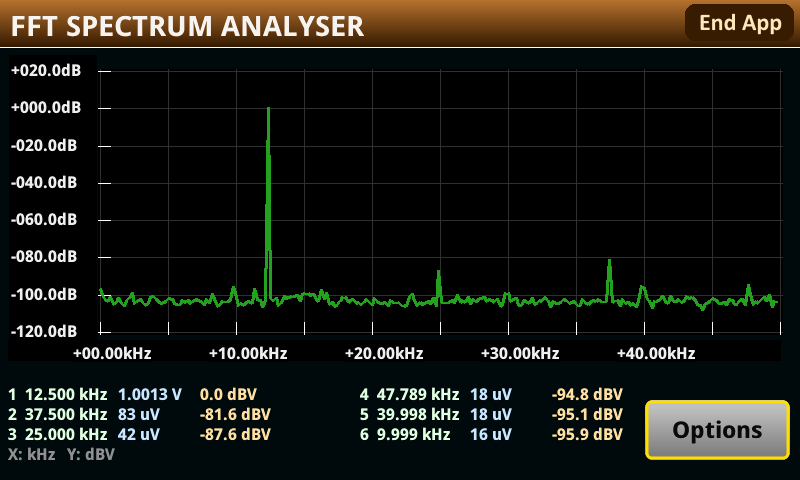
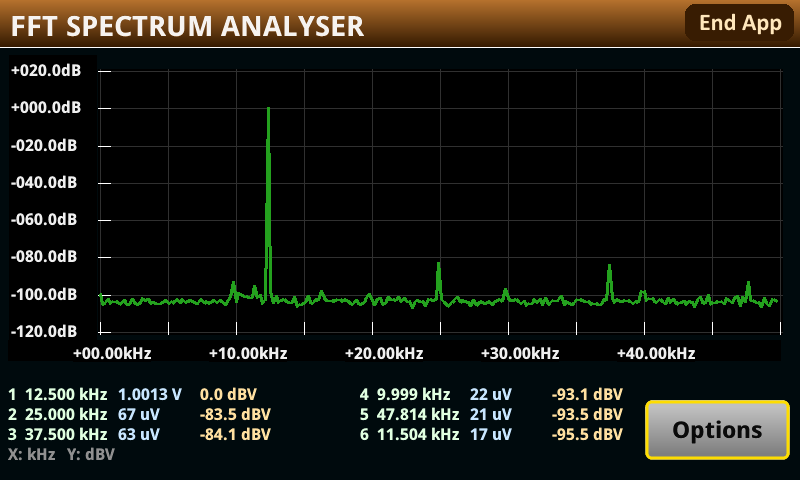
Replace the 16,384 screenshot with one taken under the operator's control
Same configuration, cleaner capture, and the harmonic levels differ enough to matter to
the README text quoting them: the second and third now read -83.5 dBV at 25.000 kHz and
-84.1 at 37.500, against -87.6 and -81.6 in the previous figure. Quoted from the capture's
own peak table.

Provenance is the reason for the swap. The previous image came from a sweep that drove the
sample count across all six sizes, which the operator had not agreed to -- they had asked
for the grabs and for the axis fix to be confirmed at every size, and I took that as
licence to drive the instrument to produce both. It was not.

diff --git a/README.md b/README.md
@@ -4,11 +4,11 @@ A real-time FFT spectrum analyser for the Keithley DMM6500, DAQ6510 and DMM7510,
 on the instrument** as a TSP app. The digitizer captures, the instrument computes the transform in
 Lua, and the firmware's own graph object draws the trace. No host, no PC software.
 
-![The spectrum screen at 16,384 samples: a 12.5 kHz 1.0013 V tone reading 0.0 dBV as a narrow spike, its second and third harmonics resolved as separate lines at 25.000 and 37.500 kHz, over a 10 Hz to 50 kHz span with 6.1 Hz bins. The firmware labels the axes itself, +020.0dB down to -120.0dB and +00.00kHz across to +40.00kHz](docs/manual-spectrum-16384.png)
+![The spectrum screen at 16,384 samples: a 12.5 kHz 1.0013 V tone reading 0.0 dBV as a narrow spike, its second and third harmonics resolved as separate lines at 25.000 and 37.500 kHz, 83 dB down, over a 10 Hz to 50 kHz span with 6.1 Hz bins. The firmware labels the axes itself, +020.0dB down to -120.0dB and +00.00kHz across to +40.00kHz](docs/manual-spectrum-16384.png)
 
 A bench multimeter is not a spectrum analyser. This one has a 1 MS/s digitizer, a 400 MHz processor
 and a touchscreen, which is enough to resolve the second and third harmonics of a 12.5 kHz tone at
-−81.6 and −87.6 dBV — 6.1 Hz bins at 16,384 samples, or 195 Hz bins at 10 frames a second.
+−83.5 and −84.1 dBV — 6.1 Hz bins at 16,384 samples, or 195 Hz bins at 10 frames a second.
 
 `docs/MANUAL.md` is the user manual. Start there to operate it; read on for how it works.
 
